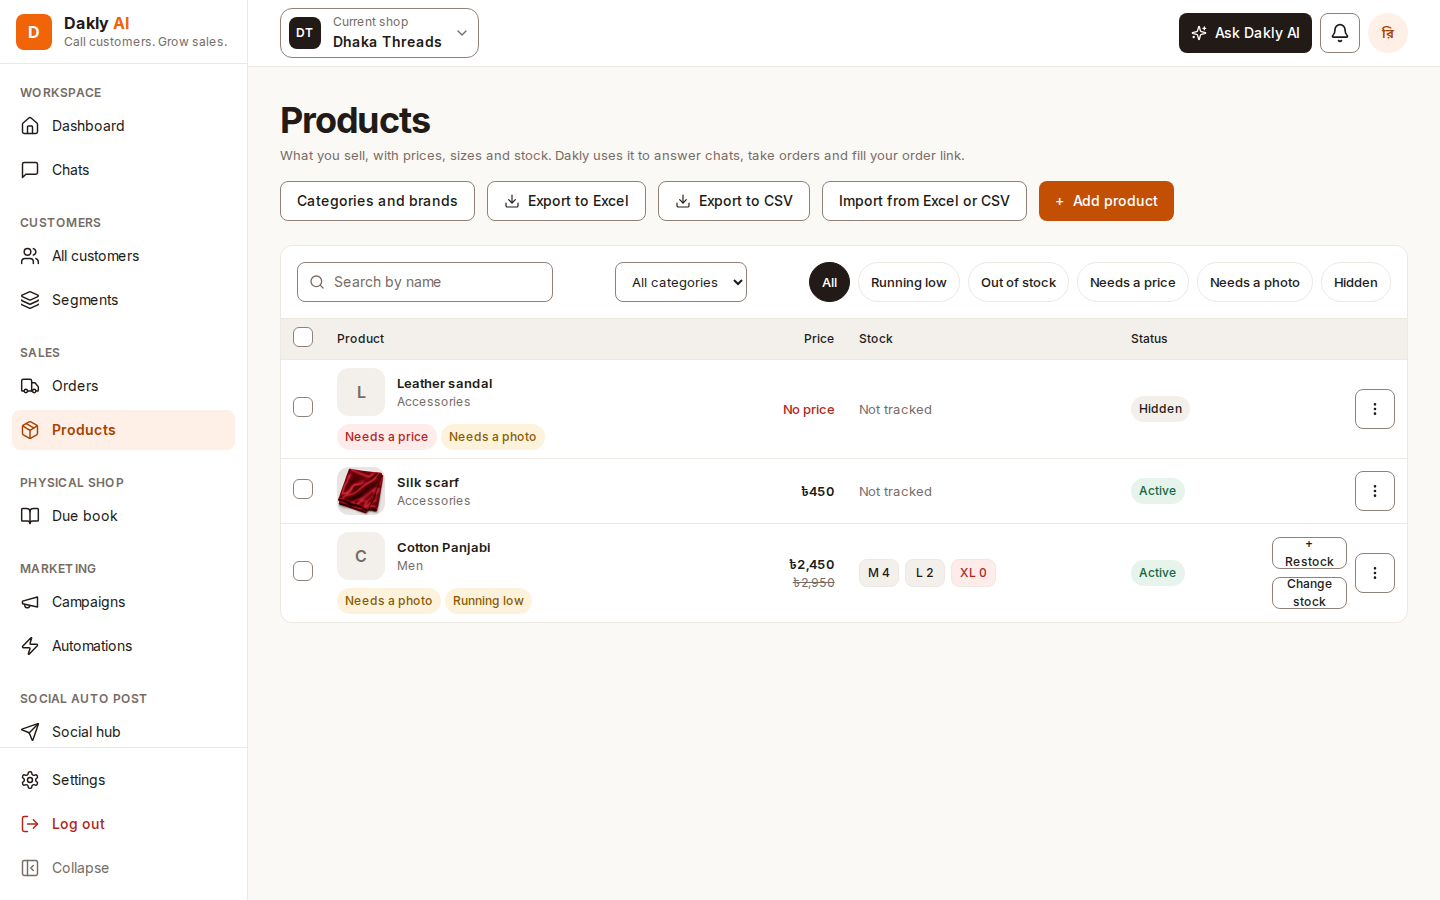
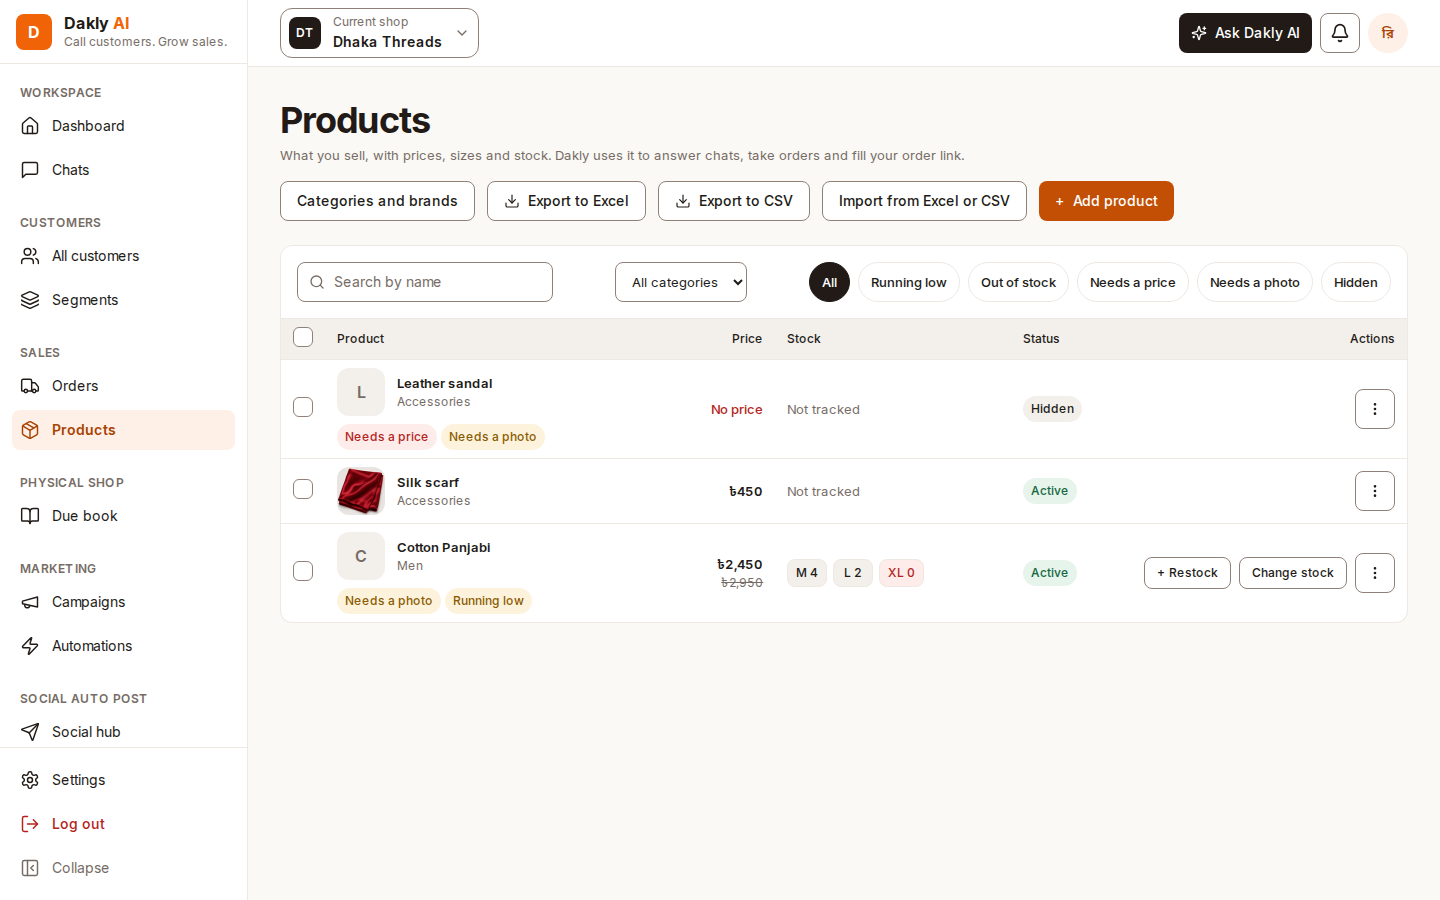
fix(prod-17): keep desktop product actions on one line

diff --git a/apps/web/src/features/products/components/product-list.tsx b/apps/web/src/features/products/components/product-list.tsx
@@ -84,7 +84,7 @@ function ProductRestockButton({
   const variant = lowestStockVariant(product.variants);
   if (!variant) return null;
   return (
-    <div className="flex flex-wrap justify-end gap-2">
+    <div className="flex flex-wrap justify-end gap-2 md:flex-nowrap">
       <Button
         variant="secondary"
         className={className}
@@ -126,9 +126,7 @@ function ProductTableHead({ products, onAdjust, selection }: ProductListProps) {
         <TableHead>Stock</TableHead>
         <TableHead>Status</TableHead>
         {onAdjust ? (
-          <TableHead className="w-28 text-right">
-            <span className="sr-only">Actions</span>
-          </TableHead>
+          <TableHead className="w-px text-right whitespace-nowrap">Actions</TableHead>
         ) : null}
       </TableRow>
     </TableHeader>
@@ -169,7 +167,7 @@ function ProductTable({ products, onAdjust, onChangeStock, selection }: ProductL
                   onAdjust={onAdjust}
                   onChangeStock={onChangeStock}
                   selection={selection}
-                  className="h-8 min-h-8 rounded-md px-3 text-xs font-medium"
+                  className="h-8 min-h-8 rounded-md px-3 text-xs font-medium whitespace-nowrap"
                 />
               </TableCell>
             ) : null}
